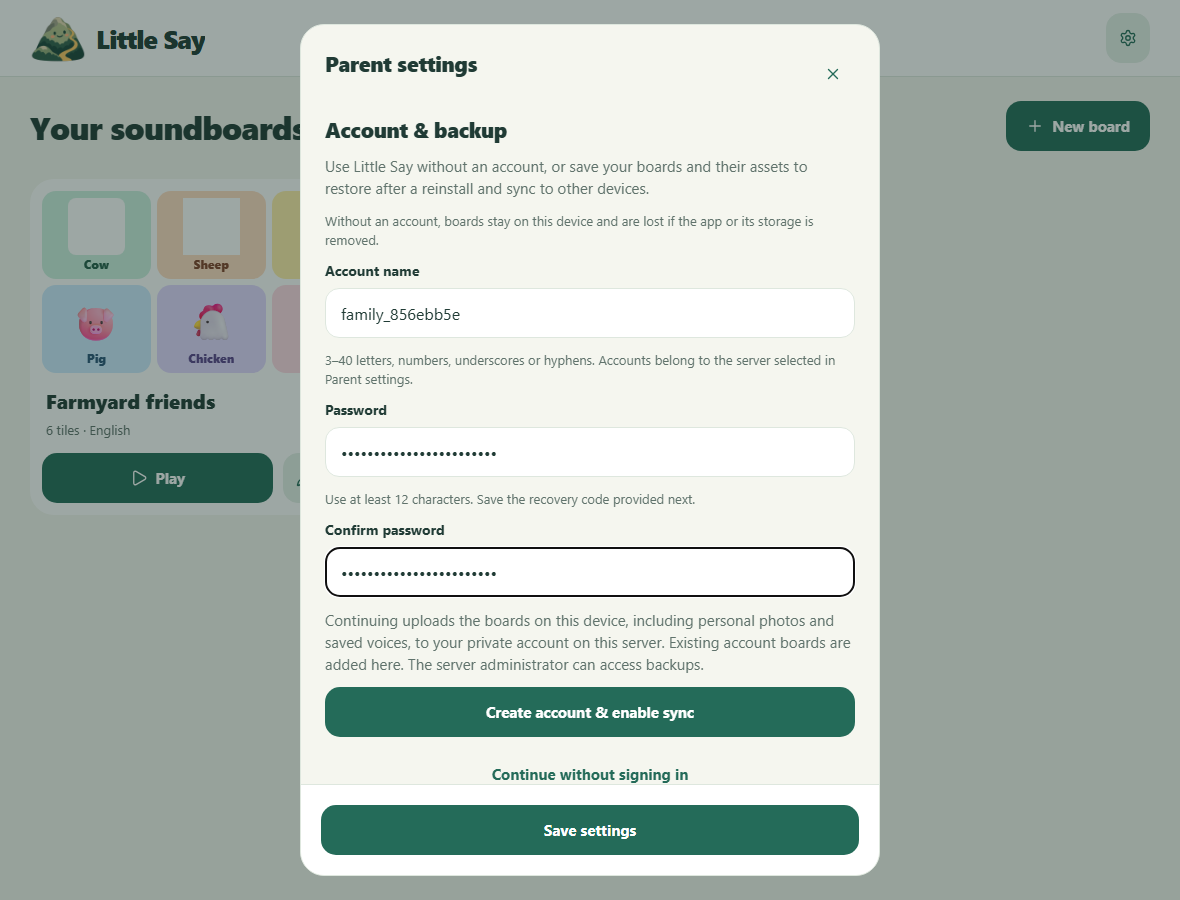
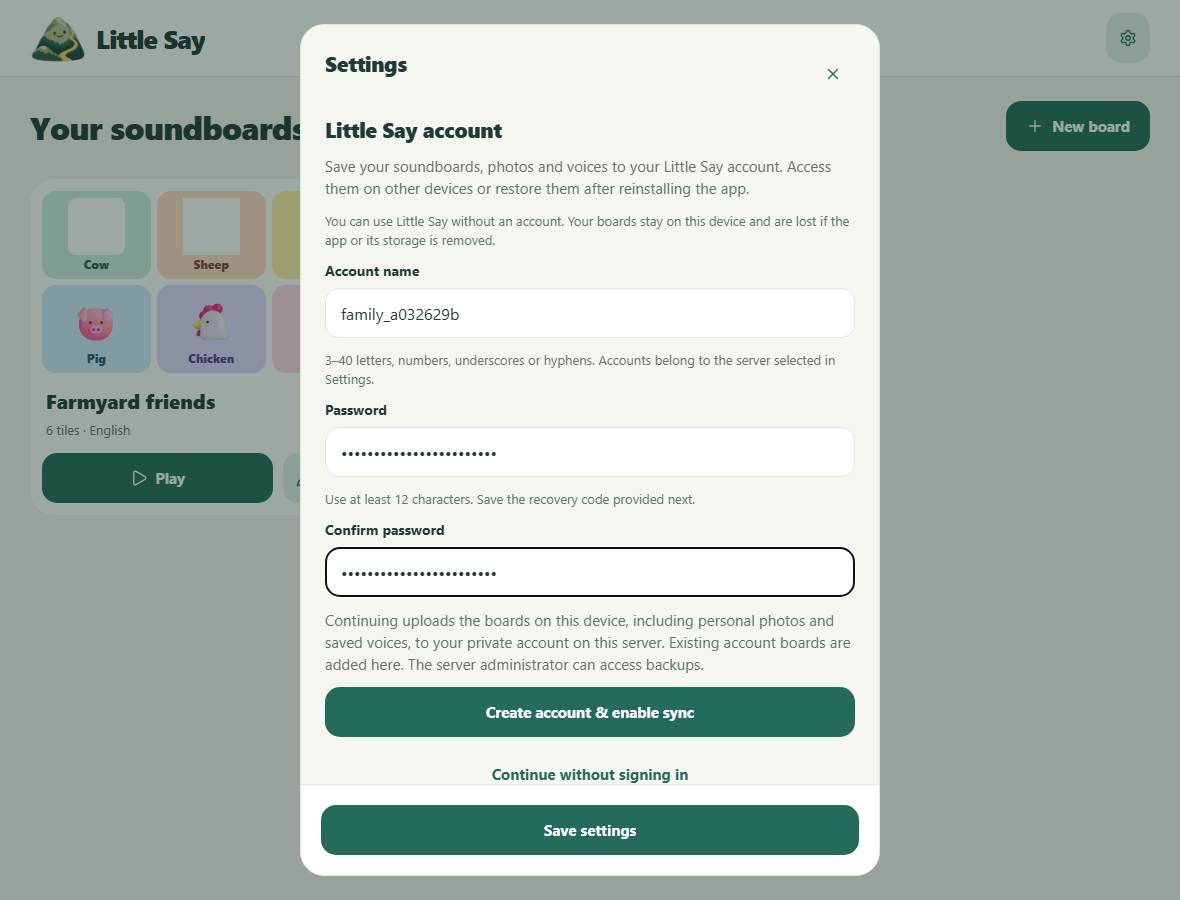
Refresh account screenshots for inclusive copy

diff --git a/docs/screenshots/account-sync/README.md b/docs/screenshots/account-sync/README.md
@@ -1,10 +1,12 @@
-# Optional account and sync evidence
+# Little Say account and sync evidence
 
-Captured October 4, 2026 from the production web build at application commit [`45a87f3`](https://github.com/MChartier/little-say/commit/45a87f3d6a5b114aeccf171a90458a630f54591e). The subsequent evidence commit adds only these screenshots and this index; application code is unchanged. Phone viewport: 390 × 844. Tablet viewport: 1180 × 900. All four captures were visually inspected after modal animations settled.
+Captured October 4, 2026 from the production web build at application commit [`f1ed210`](https://github.com/MChartier/little-say/commit/f1ed210f06f9bd90d1cd016f8b06a7b7ec48d504). The subsequent evidence commit refreshes only these screenshots and this index; application code is unchanged. Phone viewport: 390 × 844. Tablet viewport: 1180 × 900. All four captures were visually inspected after modal animations settled.
+
+The refreshed UI uses **Settings**, **Little Say account**, and **Create account**. Its explanation leads with saving soundboards and media for other devices and reinstalls, then makes clear that using Little Say without an account is supported.
 
 | State | Phone | Tablet |
 | --- | --- | --- |
-| Account remains optional | [Account choices](optional-phone.png) | — |
+| Account choices and local-only use | [Account choices](optional-phone.png) | — |
 | Create an account and enable uploads | — | [Account form and consent](create-tablet.png) |
 | Restored and synced on another device | [Restored account](restored-phone.png) | [Restored account](restored-tablet.png) |
 
